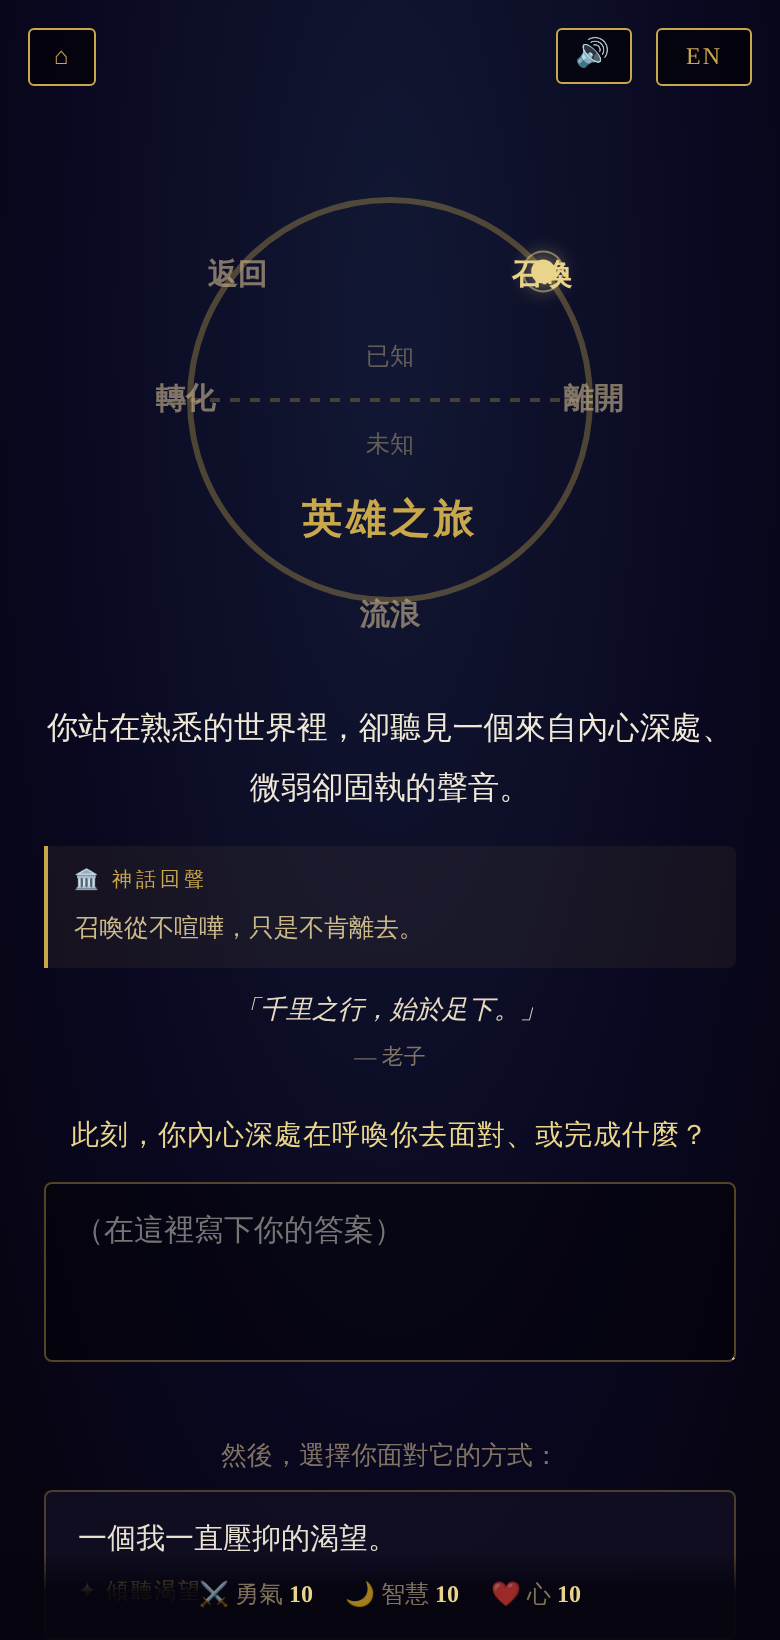
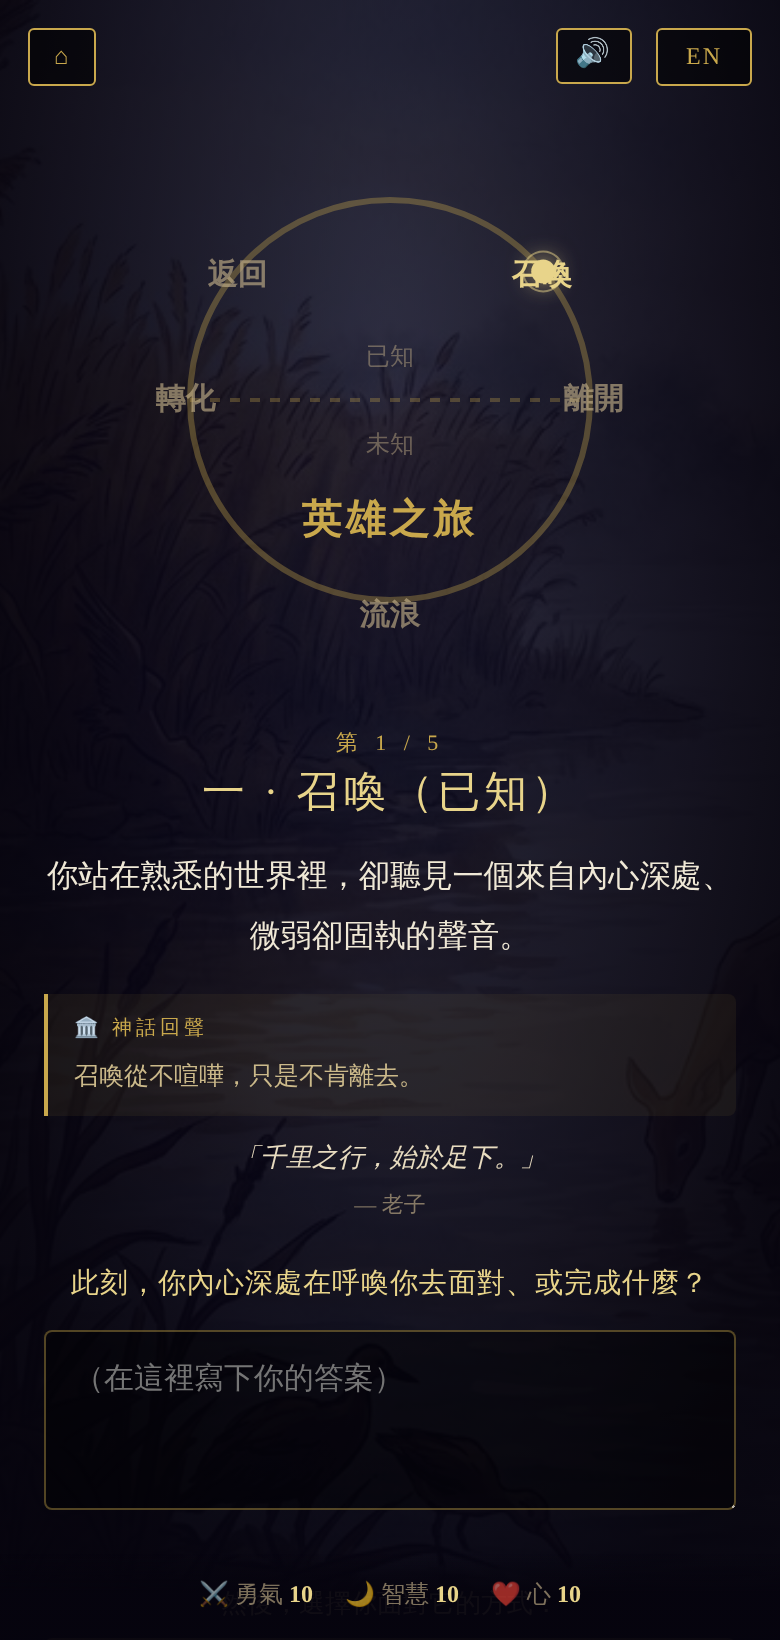
Inner Journey: add scene illustrations behind each station + ending medallion
Each of the five stations now shows a faded, mapped scene illustration
behind the ring and text (call/threshold/trials/resurrection/return, reusing
the existing art), and the ending shows the medallion. Refreshed README
screenshot.

Claude-Session: https://claude.ai/code/session_01DC1FbhQwf2omLxjerHxR7e

diff --git a/inner_journey.html b/inner_journey.html
@@ -25,6 +25,9 @@ body{background:#07050f;color:var(--text);font-family:"Noto Serif TC","Songti TC
 
 /* journey */
 #journey{background:radial-gradient(ellipse at 50% 20%,#121834 0,#0a0820 60%,#06040e 100%);justify-content:flex-start;}
+#bg{position:absolute;inset:0;width:100%;height:100%;object-fit:cover;opacity:0.28;transition:opacity .6s;}
+#veil{position:absolute;inset:0;background:radial-gradient(ellipse at 50% 26%,rgba(10,8,32,0.5),rgba(6,4,14,0.92) 82%);}
+#ringwrap,#body{position:relative;z-index:2;}
 #ringwrap{margin-top:50px;flex-shrink:0;}
 svg#ring{width:min(300px,80vw);height:auto;display:block;}
 #ring .rlabel{fill:var(--muted);font-size:15px;font-family:inherit;font-weight:700;}
@@ -60,6 +63,7 @@ textarea:focus{outline:none;border-color:var(--gold);}
 
 /* ending */
 #ending{background:radial-gradient(ellipse at 50% 25%,#141a3a 0,#0a0820 55%,#06040e 100%);overflow-y:auto;justify-content:flex-start;padding:54px 24px 40px;}
+.end-illus{width:130px;height:130px;object-fit:cover;border-radius:50%;border:3px solid var(--gold);box-shadow:0 0 40px rgba(201,168,76,.4);margin:0 auto 18px;display:block;}
 .arch{font-size:clamp(26px,7vw,36px);color:var(--gold-light);letter-spacing:3px;text-align:center;text-shadow:0 0 24px rgba(201,168,76,.5);margin-bottom:2px;}
 .arch-en{font-size:13px;letter-spacing:4px;color:var(--muted);text-align:center;margin-bottom:18px;}
 .epic{max-width:600px;font-size:15px;line-height:2.05;color:#efe8d6;white-space:pre-wrap;text-align:center;border-top:1px solid rgba(201,168,76,.25);border-bottom:1px solid rgba(201,168,76,.25);padding:22px 6px;margin-bottom:20px;}
@@ -81,6 +85,8 @@ textarea:focus{outline:none;border-color:var(--gold);}
   </section>
 
   <section id="journey" class="screen">
+    <img id="bg" src="" alt="">
+    <div id="veil"></div>
     <div id="ringwrap">
       <svg id="ring" viewBox="0 0 300 300" aria-hidden="true">
         <circle class="ringpath" cx="150" cy="150" r="100"></circle>
@@ -107,6 +113,7 @@ textarea:focus{outline:none;border-color:var(--gold);}
   </div></div>
 
   <section id="ending" class="screen">
+    <img class="end-illus" src="./images/img37.png" alt="" onerror="this.style.display='none'">
     <div class="adv-label" id="e-label">你的內在稱號</div>
     <div class="arch" id="e-arch"></div>
     <div class="arch-en" id="e-arch-en"></div>
@@ -166,6 +173,8 @@ const PH=[
       choices:[{t:'Treat those around me more gently.',a:{heart:2},w:'gentler with others'},{t:'Live the insight as small daily acts.',a:{wisdom:1,courage:1},w:'made daily'},{t:'Be a lamp in someone’s darkness.',a:{heart:1,wisdom:1},w:'lighting others'}]}}
 ];
 const ANGLES=[50,90,180,270,310];
+// per-station background illustrations (reuse the twelve scene images)
+const BG=['./images/img4.jpg','./images/img7.png','./images/img8.jpg','./images/img13.jpg','./images/img14.png'];
 
 const G={i:0,attrs:{courage:10,wisdom:10,heart:10},answers:[],traits:[]};
 const L=()=>LANG,$=id=>document.getElementById(id),clamp=v=>Math.max(0,Math.min(20,v));
@@ -197,6 +206,7 @@ function moveMarker(i){
 }
 function renderPhase(keep){
   const p=PH[G.i],d=p[L()],u=UI[LANG];
+  const bg=$('bg'); bg.src=BG[G.i]; bg.onerror=function(){this.style.opacity=0;}; bg.onload=function(){this.style.opacity=0.28;};
   moveMarker(G.i);updateHUD();
   const prev=keep?($('answer')?$('answer').value:''):'';
   const body=$('body');body.innerHTML='';
